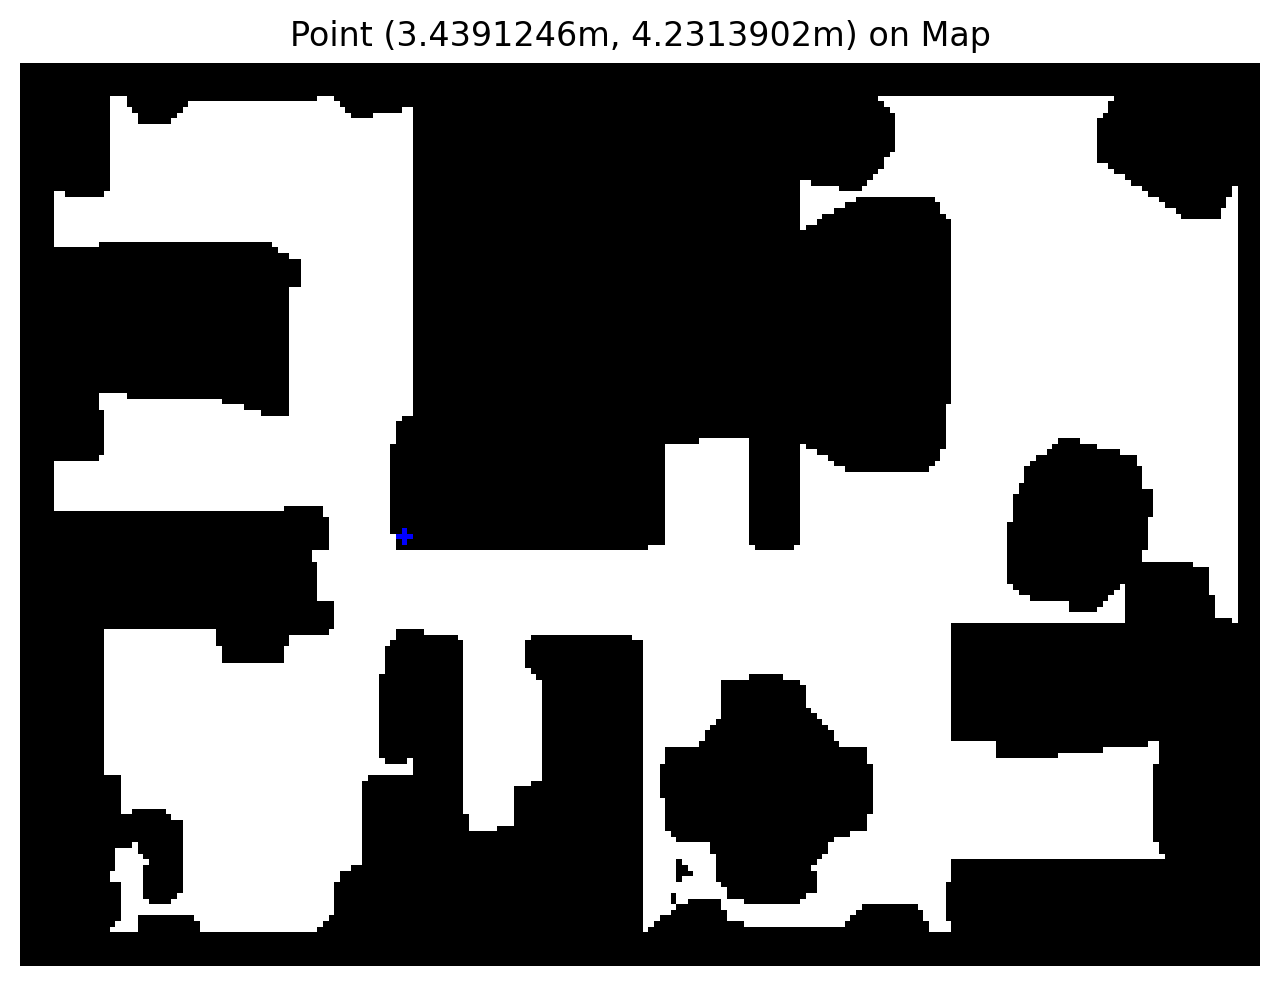
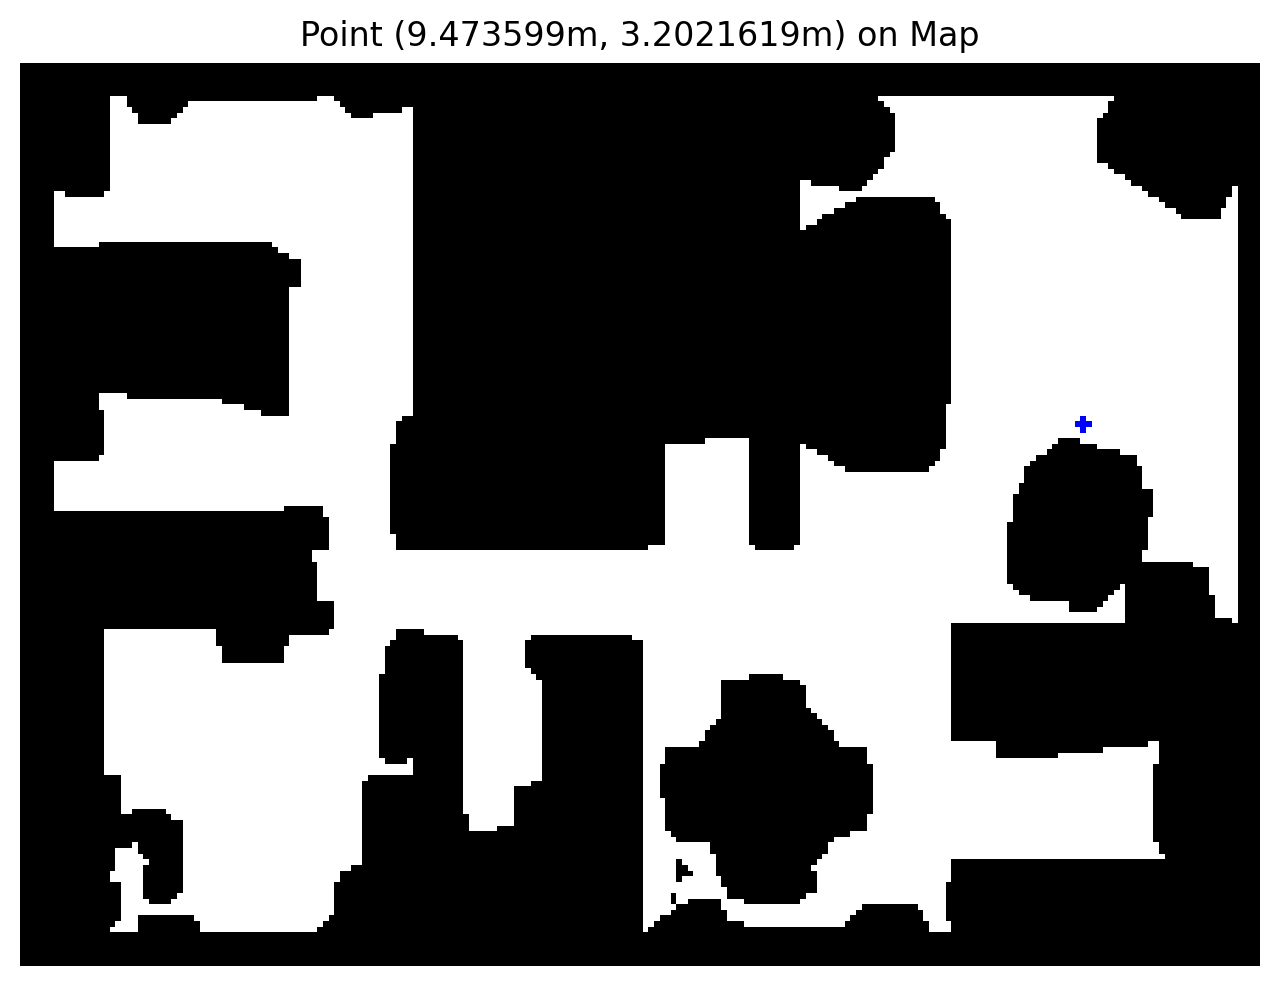
make pipline automatic

Changed region(s): [[0.2188, 0.0, 0.7812, 0.0609]]

diff --git a/src/agent.py b/src/agent.py
@@ -161,7 +161,10 @@ class VLMNavAgent(Agent):
         agent_action, metadata = self._choose_action(obs)
 
 
-        confidence_score = metadata['step_metadata'].get('score')  # Default to 1.0 if missing
+        confidence_score = metadata['step_metadata'].get('score') 
+
+
+
         # Adjust action distance based on confidence score
         agent_action = self._adjust_action_distance(agent_action, confidence_score)
         # Print updated action details
@@ -203,7 +206,7 @@ class VLMNavAgent(Agent):
         adjusted_distance = agent_action.r * confidence_score
         final_distance = min(adjusted_distance, max_action_dist_calibration)
 
-        print(f"[VLMNavAgent] Adjusted Distance: {adjusted_distance}, Clamped Distance: {final_distance}")
+        print(f"[VLMNavAgent] Original distance: {agent_action.r}, Adjusted distance: {final_distance}")
 
         agent_action.r = final_distance  # Update action distance
         return agent_action
@@ -954,11 +957,39 @@ class ObjectNavAgent(VLMNavAgent):
         print("🧭 Agent Rotation in euler degree:", yaw_deg)
 
         ########################### RRT star here ###############################
-        x_start = agent_state.position[0] + 1 # X position in meters
-        y_start = agent_state.position[2] + 1.5 # 
+        map_origin = self.cfg.get('map_origin')
+
+
+        # print(f"printing map_origin {map_origin}")
+
+        x_start = agent_state.position[0] - map_origin[0] # X position in meters
+        y_start = agent_state.position[2] - map_origin[1]  # 
+
+        # x_start = agent_state.position[0] + 0.77397 # X position in meters
+        # y_start = agent_state.position[2] + 1.5698568 # 
+
+
         start = (x_start, y_start)
         goal = (2.0, 2.5)
-        map_path = "topdown_maps_single/occupancy_h2.1.npy"
+
+
+
+
+        # map_path = "topdown_maps_single/occupancy_h2.1.npy"
+
+
+
+
+        height = self.cfg.get('rrt_map_height')
+
+
+
+        # print(f"printing in agent.py {self.cfg['rrt_map_height']:.2f}")
+
+        
+        map_path = f"topdown_maps_single/occupancy_h{height:.2f}.npy"
+
+
 
 
         path, nodes, occupancy, start_goal, reference_angle, reference_point = plan_rrt_star(start, goal, map_path)
@@ -1073,7 +1104,11 @@ class ObjectNavAgent(VLMNavAgent):
             confident_scores = step_metadata.get('confident_score', [])
             turnaround_available = self.step_ndx - self.turned >= self.cfg['turn_around_cooldown']
 
-            score_idx = best_action_idx + 1 if turnaround_available else best_action_idx
+            # score_idx = best_action_idx + 1 if turnaround_available else best_action_idx
+
+
+
+            score_idx = best_action_idx
 
             # print('debug ############################',score_idx)
 
@@ -1082,7 +1117,7 @@ class ObjectNavAgent(VLMNavAgent):
 
 
 
-            if 0 <= score_idx <= len(confident_scores):
+            if 0 <= score_idx < len(confident_scores):
                 confidence = confident_scores[score_idx]
                 print(f"🎯 Best VLM Option Matching RRT*: Action {best_action_idx + 1} (θ ≈ {closest_angle}°), Confidence: {confidence}")
             else:
@@ -1153,6 +1188,7 @@ class ObjectNavAgent(VLMNavAgent):
                 f"Second, tell me which general direction you should go in. "
                 f"Lastly, explain which action achieves that best and return it as JSON in the format: "
                 f"{{'action': <action_key>, 'score': <confidence_score>, 'confident_score': [<score_0>, <score_1>, ..., <score_n>]}}. "
+                f"'action' must be an integer not a string. "
                 f"You must generate exactly {num_actions} confidence scores, one for each action shown. "
                 f"The 'confident_score' list represents probabilities for each action and MUST sum exactly to 1.0. "
                 f"{'If Action 0 (turn around) is available, its confidence score must appear first in the list, followed by Action 1, Action 2, etc.' if turnaround_available else 'The scores should be listed in order: Action 1, Action 2, Action 3, and so on.'}"

diff --git a/src/generate_map_fh.py b/src/generate_map_fh.py
@@ -1,0 +1,76 @@
+import habitat_sim
+import numpy as np
+import matplotlib.pyplot as plt
+import os
+
+def extract_and_save_topdown_map(scene_path, height=2.1, meters_per_pixel=0.05, output_dir="topdown_maps_single"):
+
+    """
+    Extracts a top-down occupancy map and saves it as .npy/.png files.
+    
+    Args:
+        scene_path (str): Path to the .glb scene file.
+        height (float): Y-coordinate (height) of the agent to use for slicing.
+        output_dir (str): Folder to save the results.
+        meters_per_pixel (float): Resolution of the top-down map.
+    
+    Returns:
+        occupancy (np.ndarray): Occupancy grid (0 = free, 1 = obstacle)
+        origin_xz (np.ndarray): World coordinate origin used for aligning with sim
+    """
+
+    # Simulator config
+    sim_cfg = habitat_sim.SimulatorConfiguration()
+    sim_cfg.scene_id = scene_path
+
+    agent_cfg = habitat_sim.agent.AgentConfiguration()
+    agent_cfg.sensor_specifications = []
+
+    cfg = habitat_sim.Configuration(sim_cfg, [agent_cfg])
+    sim = habitat_sim.Simulator(cfg)
+
+    # Ensure navmesh is loaded
+    if not sim.pathfinder.is_loaded:
+        print("⚠ Navmesh missing! Generating...")
+        navmesh_settings = habitat_sim.NavMeshSettings()
+        navmesh_settings.set_defaults()
+        navmesh_settings.cell_size = meters_per_pixel
+        navmesh_settings.cell_height = 0.0
+        success = sim.recompute_navmesh(sim.pathfinder, navmesh_settings)
+        if not success:
+            raise RuntimeError("❌ Navmesh generation failed!")
+        print("✅ Navmesh successfully generated!")
+
+    print(f"📏 Generating map at height: {height:.2f}m")
+    top_down_map = sim.pathfinder.get_topdown_view(meters_per_pixel=meters_per_pixel, height=height)
+    occupancy = (~top_down_map.astype(bool)).astype(np.uint8)  # 0 = free, 1 = obstacle
+
+    bounds = sim.pathfinder.get_bounds()
+    origin_xz = np.array([bounds[0][0], bounds[0][2]])  # [min_x, min_z]
+    print(f"📍 Map origin (world coordinates): {origin_xz}")
+
+
+    os.makedirs(output_dir, exist_ok=True)
+
+    # Save occupancy grid
+    npy_filename = f"{output_dir}/occupancy_h{height:.2f}.npy"
+    np.save(npy_filename, occupancy)
+    print(f"✅ Saved occupancy grid: {npy_filename}")
+
+    # Save origin
+    origin_filename = f"{output_dir}/origin_h{height:.2f}.npy"
+    np.save(origin_filename, origin_xz)
+    # print(f"✅ Saved origin: {origin_filename}")
+
+    # Save visual preview
+    img_filename = f"{output_dir}/topdown_map_h{height:.2f}.png"
+    plt.figure(figsize=(6, 6))
+    plt.imshow(top_down_map, cmap="gray", vmin=0, vmax=1)
+    plt.axis("off")
+    plt.title(f"Height = {height:.2f}m")
+    plt.savefig(img_filename, bbox_inches="tight", dpi=200)
+    plt.close()
+    print(f"✅ Saved preview image: {img_filename}")
+
+    sim.close()
+    return occupancy, origin_xz

diff --git a/src/env.py b/src/env.py
@@ -15,6 +15,7 @@ from PIL import Image
 from simWrapper import PolarAction, SimWrapper
 from agent import *
 from utils import *
+from generate_map_fh import extract_and_save_topdown_map
 
 class Env:
     """
@@ -461,6 +462,12 @@ class ObjectNavEnv(Env):
         # self.init_pos = np.array([6.5, 2.06447, 3.25])
         self.init_pos = np.array([9.5, 2.06447, 1])
 
+
+        
+        ##### save the height and will use in agent.py later #######
+        self.cfg['rrt_map_height'] = float(self.init_pos[1])
+        self.agent.cfg['rrt_map_height'] = self.cfg['rrt_map_height']
+
         rotation = episode['start_rotation']
 
         # rotation = np.array([0, -0.73173, 0, -0.6816])
@@ -470,6 +477,23 @@ class ObjectNavEnv(Env):
 
         print(f"Agent starts at position: {self.init_pos}")
         print(f"Agent starts at orientation: {rotation}")
+
+        ######################################### extract map #############################################
+        height = float(self.init_pos[1])  # agent's initial y-position
+        # scene_path = self.sim_cfg["scene_path"]
+
+        scene_path = "data/scene_datasets/hm3d/val/00877-4ok3usBNeis/4ok3usBNeis.basis.glb"
+        occupancy_map, map_origin = extract_and_save_topdown_map(scene_path, height=height)
+
+        self.cfg['map_origin'] = map_origin
+        self.agent.cfg['map_origin'] = self.cfg['map_origin']
+
+        print(f"✅ In env.py, map generated at height {height:.2f} from scene: {scene_path}")
+
+
+
+
+
 
 
 ##################################################################################################

diff --git a/test.py b/test.py
@@ -1,18 +1,29 @@
+# from generate_map_fh import extract_and_save_topdown_map
+
+
+# scene_path = "data/scene_datasets/hm3d/val/00877-4ok3usBNeis/4ok3usBNeis.basis.glb"
+# agent_y = 2.06   # Automatically use the initial Y from agent
+# occupancy, origin_xz = extract_and_save_topdown_map(scene_path, height=agent_y)
+
+
+
+
+import numpy as np
 from rrt_star_call import plan_rrt_star, plot_rrt_result
 
 # Define start and goal in meters
-# start = (7.03487, 1)
-# goal = (2.0, 2.5)
-
-
-
-
-start = (10, 1.5)  
+start = (8.699629 + 0.77397, 1.6323051 + 1.5698568)
 goal = (2.0, 2.5)
-map_path = "topdown_maps_single/occupancy_h2.1.npy"
+map_path = "topdown_maps_single/occupancy_h2.06.npy"
 
 # Run planner
-path, nodes, occupancy, start_goal = plan_rrt_star(start, goal, map_path)
+path, nodes, occupancy, start_goal, reference_angle, reference_point = plan_rrt_star(start, goal, map_path)
 
-# Plot result
-plot_rrt_result(path, nodes, occupancy, start_goal, map_path)
+# Plot result (only if path is valid)
+if path:
+    plot_rrt_result(path, nodes, occupancy, start_goal, map_path, reference_point=reference_point)
+
+    if reference_angle is not None:
+        print(f"✅ Reference angle (degrees): {np.degrees(reference_angle):.2f}°")
+else:
+    print("❌ No valid path found. Skipping plot.")

diff --git a/src/rrt_star_call.py b/src/rrt_star_call.py
@@ -11,7 +11,7 @@ class Node:
         self.parent = None
         self.cost = 0.0
 
-def plan_rrt_star(start_m, goal_m, map_path, meters_per_pixel=0.05, step_size_m=0.3, search_radius_m=1, robot_radius_m=0.0, goal_tolerance_m=1, max_iterations=1000):
+def plan_rrt_star(start_m, goal_m, map_path, meters_per_pixel=0.05, step_size_m=0.2, search_radius_m=1, robot_radius_m=0.0, goal_tolerance_m=1, max_iterations=2000):
     # Convert parameters to pixel scale
     step_size = step_size_m / meters_per_pixel
     search_radius = search_radius_m / meters_per_pixel

diff --git a/plot_point_on_map.py b/plot_point_on_map.py
@@ -3,10 +3,10 @@ import matplotlib.pyplot as plt
 import cv2
 
 # ---- Config ----
-map_path = "topdown_maps_single/occupancy_h2.1.npy"
+map_path = "topdown_maps_single/occupancy_h2.06.npy"
 # [6.5, 2.06447, 3.25]
 
-x_meters, y_meters = 2.4391246  + 1.0, 2.7313902 + 1.5  # Replace with the point you want to visualize
+x_meters, y_meters = 8.699629  + 0.77397, 1.6323051 + 1.5698568  # Replace with the point you want to visualize
 meters_per_pixel = 0.05
 
 # ---- Load map ----
